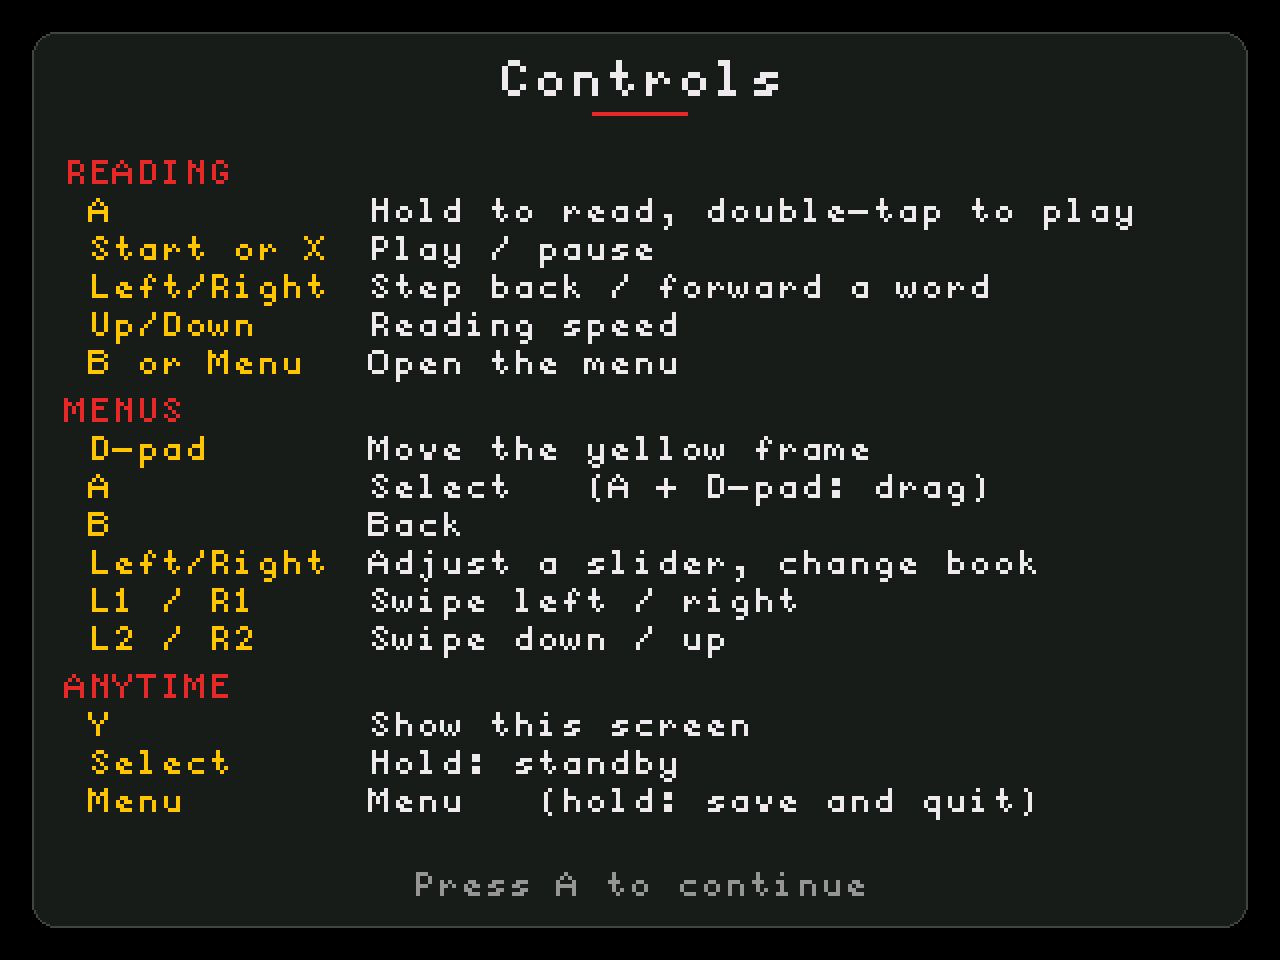
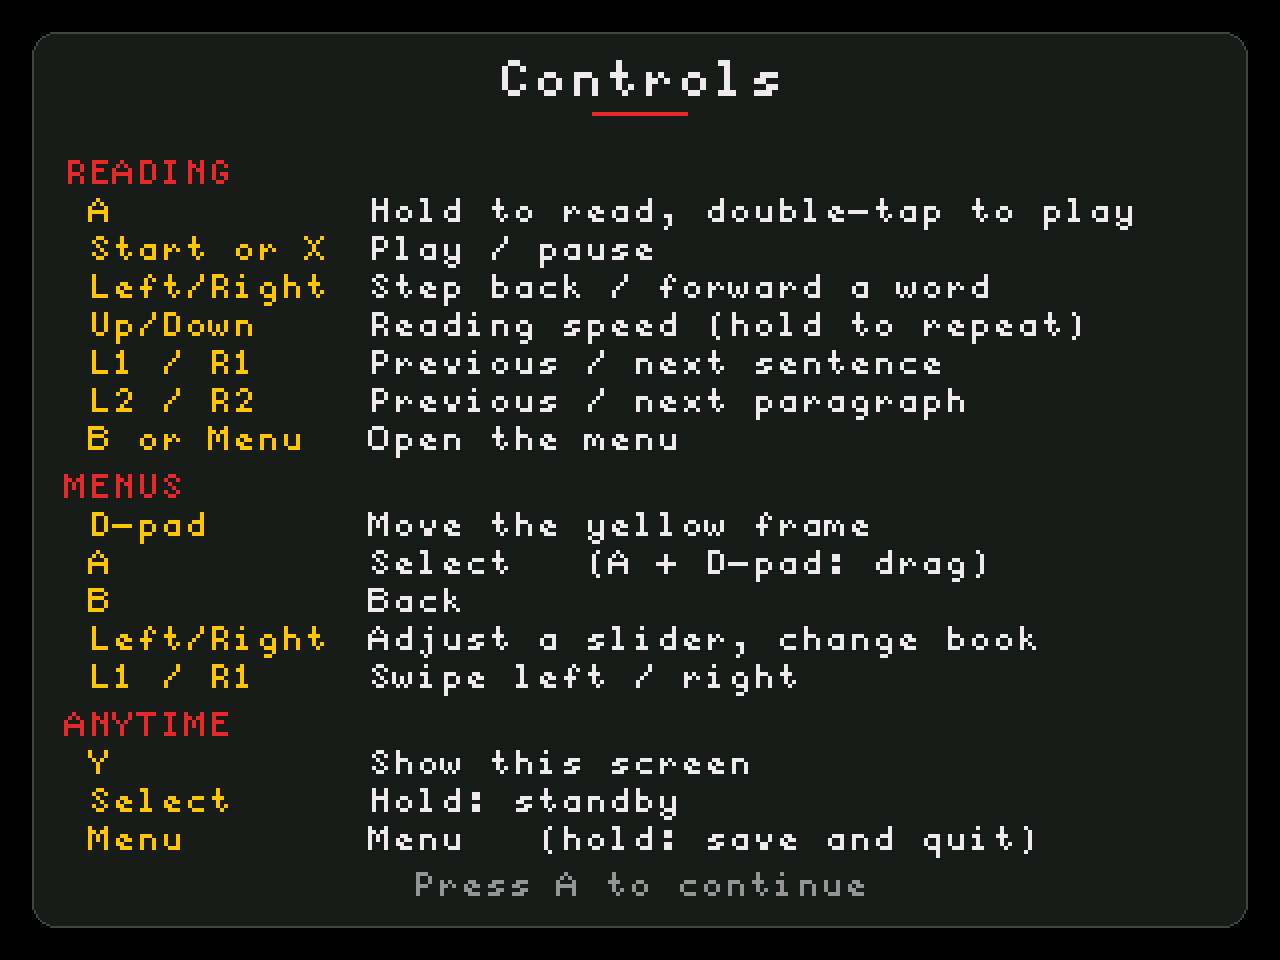
Reader: sentence and paragraph jumps for buttons; NextUI roadmap
- New Input actions (previous/next sentence, previous/next paragraph) for boards with spare
  buttons. The reader jumps without stopping playback. ReadingLoop::forwardSentence complements
  rewindSentence, with tests.
- NextUI: in the reader L1/R1 jump by sentence and L2/R2 by paragraph (menus keep the shoulder
  swipes); holding Up/Down repeats the speed change. Controls screen updated.
- ports/nextui/ROADMAP.md lists what the Brick port still lacks.

Claude-Session: https://claude.ai/code/session_01GEStbC2VgvgsA52ejdcJB5

diff --git a/src/platforms/nextui/NextUiNavigator.cpp b/src/platforms/nextui/NextUiNavigator.cpp
@@ -164,6 +164,17 @@ void NextUiNavigator::queueTap(int16_t x, int16_t y, uint32_t nowMs) {
     steps_.push_back({nowMs + kMinimumPressMs + kStepMs, false, x, y});
 }
 
+void NextUiNavigator::queueSwipe(int dx, int dy, uint32_t nowMs) {
+    constexpr int kDistance = 64; // Past the reader's 40 px swipe threshold.
+    const int16_t x = kPanelWidth / 2, y = kPanelHeight / 2;
+    steps_.push_back({nowMs, true, x, y});
+    for (int i = 1; i <= 4; ++i)
+        steps_.push_back({nowMs + static_cast<uint32_t>(i) * kStepMs, true,
+                          static_cast<int16_t>(x + dx * kDistance * i / 4), static_cast<int16_t>(y + dy * kDistance * i / 4)});
+    steps_.push_back({nowMs + 5 * kStepMs, false, static_cast<int16_t>(x + dx * kDistance),
+                      static_cast<int16_t>(y + dy * kDistance)});
+}
+
 void NextUiNavigator::queueNudge(int16_t fromX, int16_t toX, int16_t y, uint32_t nowMs) {
     steps_.push_back({nowMs, true, fromX, y});
     const int16_t middle = static_cast<int16_t>((fromX + toX) / 2);
@@ -192,8 +203,12 @@ void NextUiNavigator::directionPressed(uint32_t button, uint32_t nowMs) {
              focus_ ? focus_->rect.h : 0, focus_ ? static_cast<int>(focus_->role) : -1,
              focus_ ? focus_->valueX : -1);
     if (targets_.empty()) {
-        // Gesture screens (the reader): swipe from the centre like a finger would.
-        startDrag(button, dx, dy, kPanelWidth / 2, kPanelHeight / 2, nowMs);
+        // Gesture screens (the reader): swipe from the centre like a finger would. Left/Right keep
+        // dragging while held (scrubbing); Up/Down are one swipe each, repeated while held (speed).
+        if (dy != 0)
+            queueSwipe(0, dy, nowMs);
+        else
+            startDrag(button, dx, dy, kPanelWidth / 2, kPanelHeight / 2, nowMs);
         return;
     }
     if (focus_ && dx != 0 && focus_->role == ui::Context::TargetRole::Step) {
@@ -299,8 +314,9 @@ bool NextUiNavigator::update(uint32_t nowMs, uint32_t held) {
         }
     }
 
-    // 3. Swipes (shoulders anywhere; D-pad on gesture screens).
-    if (!busy && !pressing_ && !drag_.active) {
+    // 3. Swipes (shoulders on screens with widgets; D-pad on gesture screens). In the reader the
+    //    shoulders jump by sentence / paragraph instead (Input actions, see BoardPlatform.cpp).
+    if (!busy && !pressing_ && !drag_.active && !targets_.empty()) {
         if (pressed & ButtonL1)
             startDrag(ButtonL1, -1, 0, kPanelWidth / 2, kPanelHeight / 2, nowMs);
         else if (pressed & ButtonR1)
@@ -349,7 +365,8 @@ bool NextUiNavigator::update(uint32_t nowMs, uint32_t held) {
             fire = direction & (~direction + 1); // lowest set bit
             repeatButton_ = fire;
             nextRepeatMs_ = nowMs + kRepeatDelayMs;
-        } else if (repeatButton_ != 0 && (held & repeatButton_) && !targets_.empty()
+        } else if (repeatButton_ != 0 && (held & repeatButton_)
+                   && (!targets_.empty() || (repeatButton_ & (ButtonUp | ButtonDown)) != 0)
                    && static_cast<int32_t>(nowMs - nextRepeatMs_) >= 0) {
             fire = repeatButton_;
             nextRepeatMs_ = nowMs + kRepeatIntervalMs;

diff --git a/test/test_pacing/test_main.cpp b/test/test_pacing/test_main.cpp
@@ -483,6 +483,37 @@ void test_rewind_sentence_ignores_abbreviation_periods(void) {
     TEST_ASSERT_EQUAL_STRING("Then", r.currentWord.c_str());
 }
 
+void test_forward_sentence_moves_to_next_sentence_start(void) {
+    ReadingSession r = makeReader(300, {"One", "two.", "Three", "four", "five.", "Six"});
+    ReadingLoop::seekTo(r, 3);
+    ReadingLoop::forwardSentence(r);
+    TEST_ASSERT_EQUAL(5u, r.state.wordIndex);
+    TEST_ASSERT_EQUAL_STRING("Six", r.currentWord.c_str());
+}
+
+void test_forward_sentence_from_sentence_end_moves_to_next_start(void) {
+    ReadingSession r = makeReader(300, {"One", "two.", "Three", "four."});
+    ReadingLoop::seekTo(r, 1);
+    ReadingLoop::forwardSentence(r);
+    TEST_ASSERT_EQUAL(2u, r.state.wordIndex);
+}
+
+void test_forward_sentence_clamps_at_book_end(void) {
+    ReadingSession r = makeReader(300, {"One", "two.", "Three", "four"});
+    ReadingLoop::seekTo(r, 2);
+    ReadingLoop::forwardSentence(r);
+    TEST_ASSERT_EQUAL(3u, r.state.wordIndex);
+    TEST_ASSERT_EQUAL_STRING("four", r.currentWord.c_str());
+}
+
+void test_forward_sentence_ignores_abbreviation_periods(void) {
+    ReadingSession r = makeReader(300, {"Mr.", "Smith", "arrived.", "Then", "left."});
+    ReadingLoop::seekTo(r, 0);
+    ReadingLoop::forwardSentence(r);
+    TEST_ASSERT_EQUAL(3u, r.state.wordIndex);
+    TEST_ASSERT_EQUAL_STRING("Then", r.currentWord.c_str());
+}
+
 // ---------------------------------------------------------------------------
 // Word count / word access
 // ---------------------------------------------------------------------------
@@ -563,6 +594,10 @@ int main(void) {
     RUN_TEST(test_rewind_sentence_at_sentence_start_moves_to_previous_sentence);
     RUN_TEST(test_rewind_sentence_clamps_at_book_start);
     RUN_TEST(test_rewind_sentence_ignores_abbreviation_periods);
+    RUN_TEST(test_forward_sentence_moves_to_next_sentence_start);
+    RUN_TEST(test_forward_sentence_from_sentence_end_moves_to_next_start);
+    RUN_TEST(test_forward_sentence_clamps_at_book_end);
+    RUN_TEST(test_forward_sentence_ignores_abbreviation_periods);
 
     RUN_TEST(test_word_at_returns_correct_word);
 

diff --git a/src/platforms/nextui/NextUiNavigator.h b/src/platforms/nextui/NextUiNavigator.h
@@ -15,8 +15,10 @@
 //    focused widget. Left/Right on a slider or stepper changes its value.
 //  * Holding A presses at the focus; the D-pad then drags (sliders, rotaries, swipes).
 //  * Screens without widgets (the RSVP reader): the D-pad swipes from the screen centre, the same
-//    gestures a finger makes (left/right scrub words, up/down change speed).
-//  * L1/R1 always swipe left/right and L2/R2 swipe down/up from the centre.
+//    gestures a finger makes (left/right scrub words while held, up/down change speed, repeating
+//    while held).
+//  * On screens with widgets L1/R1 swipe left/right and L2/R2 swipe down/up from the centre. In the
+//    reader they jump by sentence / paragraph instead (Input actions from BoardPlatform.cpp).
 class NextUiNavigator {
 public:
     void setTargets(const std::vector<ui::Context::Target>& targets, uint8_t screen);
@@ -52,6 +54,7 @@ private:
     void chooseFocus();
     void startDrag(uint32_t button, int dx, int dy, int16_t fromX, int16_t fromY, uint32_t nowMs);
     void queueTap(int16_t x, int16_t y, uint32_t nowMs);
+    void queueSwipe(int dx, int dy, uint32_t nowMs);
     void queueNudge(int16_t fromX, int16_t toX, int16_t y, uint32_t nowMs);
     void setContact(bool touched, float x, float y);
     void directionPressed(uint32_t button, uint32_t nowMs);

diff --git a/src/ui/screens/ReaderScreen.cpp b/src/ui/screens/ReaderScreen.cpp
@@ -951,6 +951,26 @@ namespace screens {
             start(nowMs, true);
     }
 
+    void ReaderScreen::skip(Preferences& preferences, Input::ActionMask actions, uint32_t nowMs) {
+        const size_t before = session.state.wordIndex;
+        if (Input::hasAction(actions, Input::ActionPreviousSentence))
+            ReadingLoop::rewindSentence(session);
+        else if (Input::hasAction(actions, Input::ActionNextSentence))
+            ReadingLoop::forwardSentence(session);
+        else if (Input::hasAction(actions, Input::ActionPreviousParagraph))
+            ReadingLoop::seekParagraph(session, -1);
+        else if (Input::hasAction(actions, Input::ActionNextParagraph))
+            ReadingLoop::seekParagraph(session, 1);
+        if (session.state.wordIndex == before)
+            return;
+
+        pagePreview_ = false;
+        lastTapValid_ = false;
+        if (session.playing)
+            session.lastAdvanceMs = nowMs; // Show the new word for its full duration.
+        ReadingProgress::save(session, preferences, true, nowMs);
+    }
+
     void ReaderScreen::update(Preferences& preferences, uint32_t nowMs) {
         if (wpmFeedbackUntilMs_ > 0 && nowMs >= wpmFeedbackUntilMs_) {
             wpmFeedbackUntilMs_ = 0;

diff --git a/src/platforms/nextui/BoardPlatform.cpp b/src/platforms/nextui/BoardPlatform.cpp
@@ -97,6 +97,15 @@ namespace Board::Input {
         // Start is the Brick's play/pause key; the TrimUI (Menu) key opens the menu.
         if (held & ButtonStart)
             actions.shortPress |= ::Input::ActionPlayPause;
+        // Shoulders jump in the reader (menus ignore these and get swipes from the navigator instead).
+        if (held & ButtonL1)
+            actions.shortPress |= ::Input::ActionPreviousSentence;
+        if (held & ButtonR1)
+            actions.shortPress |= ::Input::ActionNextSentence;
+        if (held & ButtonL2)
+            actions.shortPress |= ::Input::ActionPreviousParagraph;
+        if (held & ButtonR2)
+            actions.shortPress |= ::Input::ActionNextParagraph;
         if (held & ButtonMenu) {
             actions.shortPress |= ::Input::ActionOpenMenu;
             actions.longPress |= ::Input::ActionPowerOff;

diff --git a/src/reader/ReadingLoop.cpp b/src/reader/ReadingLoop.cpp
@@ -1039,6 +1039,20 @@ namespace ReadingLoop {
         seekTo(session, currentSentenceStart);
     }
 
+    void forwardSentence(ReadingSession& session) {
+        // Bounded so text without sentence punctuation cannot turn one press into a book-long scan.
+        constexpr size_t kMaxSentenceWords = 400;
+        const size_t count = wordCount(session);
+        if (count == 0)
+            return;
+
+        size_t wordIndex = std::min<size_t>(session.state.wordIndex, count - 1);
+        const size_t limit = std::min(count - 1, wordIndex + kMaxSentenceWords);
+        while (wordIndex < limit && !wordEndsSentenceAt(session, wordIndex))
+            ++wordIndex;
+        seekTo(session, std::min(wordIndex + 1, count - 1));
+    }
+
     void adjustWpm(settings::ReadingSettings& settings, int delta) {
         if (delta == 0)
             return;

diff --git a/src/ui/screens/ReaderScreen.h b/src/ui/screens/ReaderScreen.h
@@ -9,6 +9,7 @@
 #include "board/BoardPower.h"
 #include "fonts/AlphaFont.h"
 #include "fonts/FontCatalog.h"
+#include "input/Input.h"
 #include "reader/ReadingLoop.h"
 #include "settings/SettingsModel.h"
 #include "settings/SettingsStore.h"
@@ -48,6 +49,8 @@ namespace screens {
         void handleTouch(ui::Context& ui, uint32_t nowMs, Preferences& preferences,
                          settings::SettingsStore& settingsStore);
         void toggle(Preferences& preferences, uint32_t nowMs);
+        // Jumps by sentence or paragraph (Input::ActionReaderSkip actions); playback keeps going.
+        void skip(Preferences& preferences, Input::ActionMask actions, uint32_t nowMs);
         void update(Preferences& preferences, uint32_t nowMs);
 
     private:

diff --git a/src/platforms/nextui/NextUiHelp.cpp b/src/platforms/nextui/NextUiHelp.cpp
@@ -36,7 +36,9 @@ namespace {
         {"A", "Hold to read, double-tap to play"},
         {"Start or X", "Play / pause"},
         {"Left/Right", "Step back / forward a word"},
-        {"Up/Down", "Reading speed"},
+        {"Up/Down", "Reading speed (hold to repeat)"},
+        {"L1 / R1", "Previous / next sentence"},
+        {"L2 / R2", "Previous / next paragraph"},
         {"B or Menu", "Open the menu"},
     };
 
@@ -46,7 +48,6 @@ namespace {
         {"B", "Back"},
         {"Left/Right", "Adjust a slider, change book"},
         {"L1 / R1", "Swipe left / right"},
-        {"L2 / R2", "Swipe down / up"},
     };
 
     constexpr Row kAnytime[] = {

diff --git a/src/app/App.cpp b/src/app/App.cpp
@@ -501,6 +501,11 @@ void App::handleInput(Input::ActionMask actions, uint32_t nowMs) {
         }
         return;
     }
+    if (Input::hasAction(actions, Input::ActionReaderSkip)) {
+        if (screen_ == screens::Screen::Reader && !typographyJobActive())
+            readerScreen_.skip(prefs_, actions, nowMs);
+        return;
+    }
     if (Input::hasAction(actions, Input::ActionSelect) || Input::hasAction(actions, Input::ActionPlayPause)) {
         if (screen_ == screens::Screen::Reader && !typographyJobActive()) {
             readerScreen_.toggle(prefs_, nowMs);

diff --git a/src/input/Input.h b/src/input/Input.h
@@ -16,6 +16,12 @@ namespace Input {
         ActionPlayPause = 1U << 3,
         ActionStandby = 1U << 4,
         ActionPowerOff = 1U << 5,
+        // Reader navigation, for boards with spare buttons (e.g. a handheld's shoulder buttons).
+        ActionPreviousSentence = 1U << 6,
+        ActionNextSentence = 1U << 7,
+        ActionPreviousParagraph = 1U << 8,
+        ActionNextParagraph = 1U << 9,
+        ActionReaderSkip = ActionPreviousSentence | ActionNextSentence | ActionPreviousParagraph | ActionNextParagraph,
     };
 
     struct PressActions {

diff --git a/src/reader/ReadingLoop.h b/src/reader/ReadingLoop.h
@@ -30,6 +30,8 @@ namespace ReadingLoop {
     void seekRelative(ReadingSession& session, size_t baseIndex, int steps);
     bool seekParagraph(ReadingSession& session, int steps);
     void rewindSentence(ReadingSession& session);
+    // Moves to the start of the next sentence (stays on the last word at the end of the book).
+    void forwardSentence(ReadingSession& session);
     void adjustWpm(settings::ReadingSettings& settings, int delta);
 
     std::string_view wordAt(const ReadingSession& session, size_t index);

diff --git a/ports/nextui/ROADMAP.md b/ports/nextui/ROADMAP.md
@@ -1,0 +1,53 @@
+# NextUI (TrimUI Brick) port — roadmap
+
+What the Brick port still lacks compared with the ESP32 readers, and what the Brick's own
+hardware could add. Roughly in priority order.
+
+## Done
+
+### 1. Wi-Fi book transfer
+- The companion API runs on the network NextUI is connected to (Device → Companion sync), served
+  by a POSIX implementation of ESP-IDF's `esp_http_server` (`runtime/HttpServer.cpp`).
+- The Brick serves its own upload page at `/`, so any phone or computer browser on the same
+  network can send books (EPUB/PDF as they are) and delete them.
+
+### 2. Reader controls designed for buttons
+- L1 / R1 jump to the previous / next sentence, L2 / R2 to the previous / next paragraph, without
+  stopping playback (new `Input` actions, usable by any board with spare buttons).
+- Holding Up / Down repeats the speed change.
+
+## Next
+
+### Wi-Fi follow-ups
+- RSS feed sync (needs HTTPS: libcurl/OpenSSL on the device).
+- Advertise the Brick over mDNS (`rsvp-nano-XXXXXX.local`) so the address need not be typed.
+- Show a QR code of the address on the Sync screen.
+
+### Controls follow-ups
+- Direct button handling for sliders and steppers instead of A + D-pad dragging.
+- Chapter jumps (for example Select + L1 / R1).
+
+### 3. Sharper text
+The UI renders at 640 × 480 and is scaled to the 1024 × 768 panel, so text is slightly soft.
+Render the reader (or at least the current word) at the panel's native resolution.
+
+### 4. Rumble and sound instead of the beeper
+The Brick has a vibration motor and a speaker. Use them for focus-timer alarms and
+end-of-chapter alerts.
+
+### 5. LED strips
+Show reading progress or the remaining focus time on the Brick's RGB LEDs.
+
+## To check on hardware
+
+### 6. Sleep and battery
+Power currently opens the app's own standby screen, which keeps the system awake. Hook into
+NextUI's suspend instead, and verify the battery reading on the device.
+
+### 7. Updates
+There is no built-in updater. Publish the pak to NextUI's Pak Store so updates come from there.
+
+## Won't do
+
+- Motion sensor features (flip to start a focus timer): the Brick has no IMU.
+- USB mass storage: the Brick's USB port is not exposed as a gadget under NextUI.
